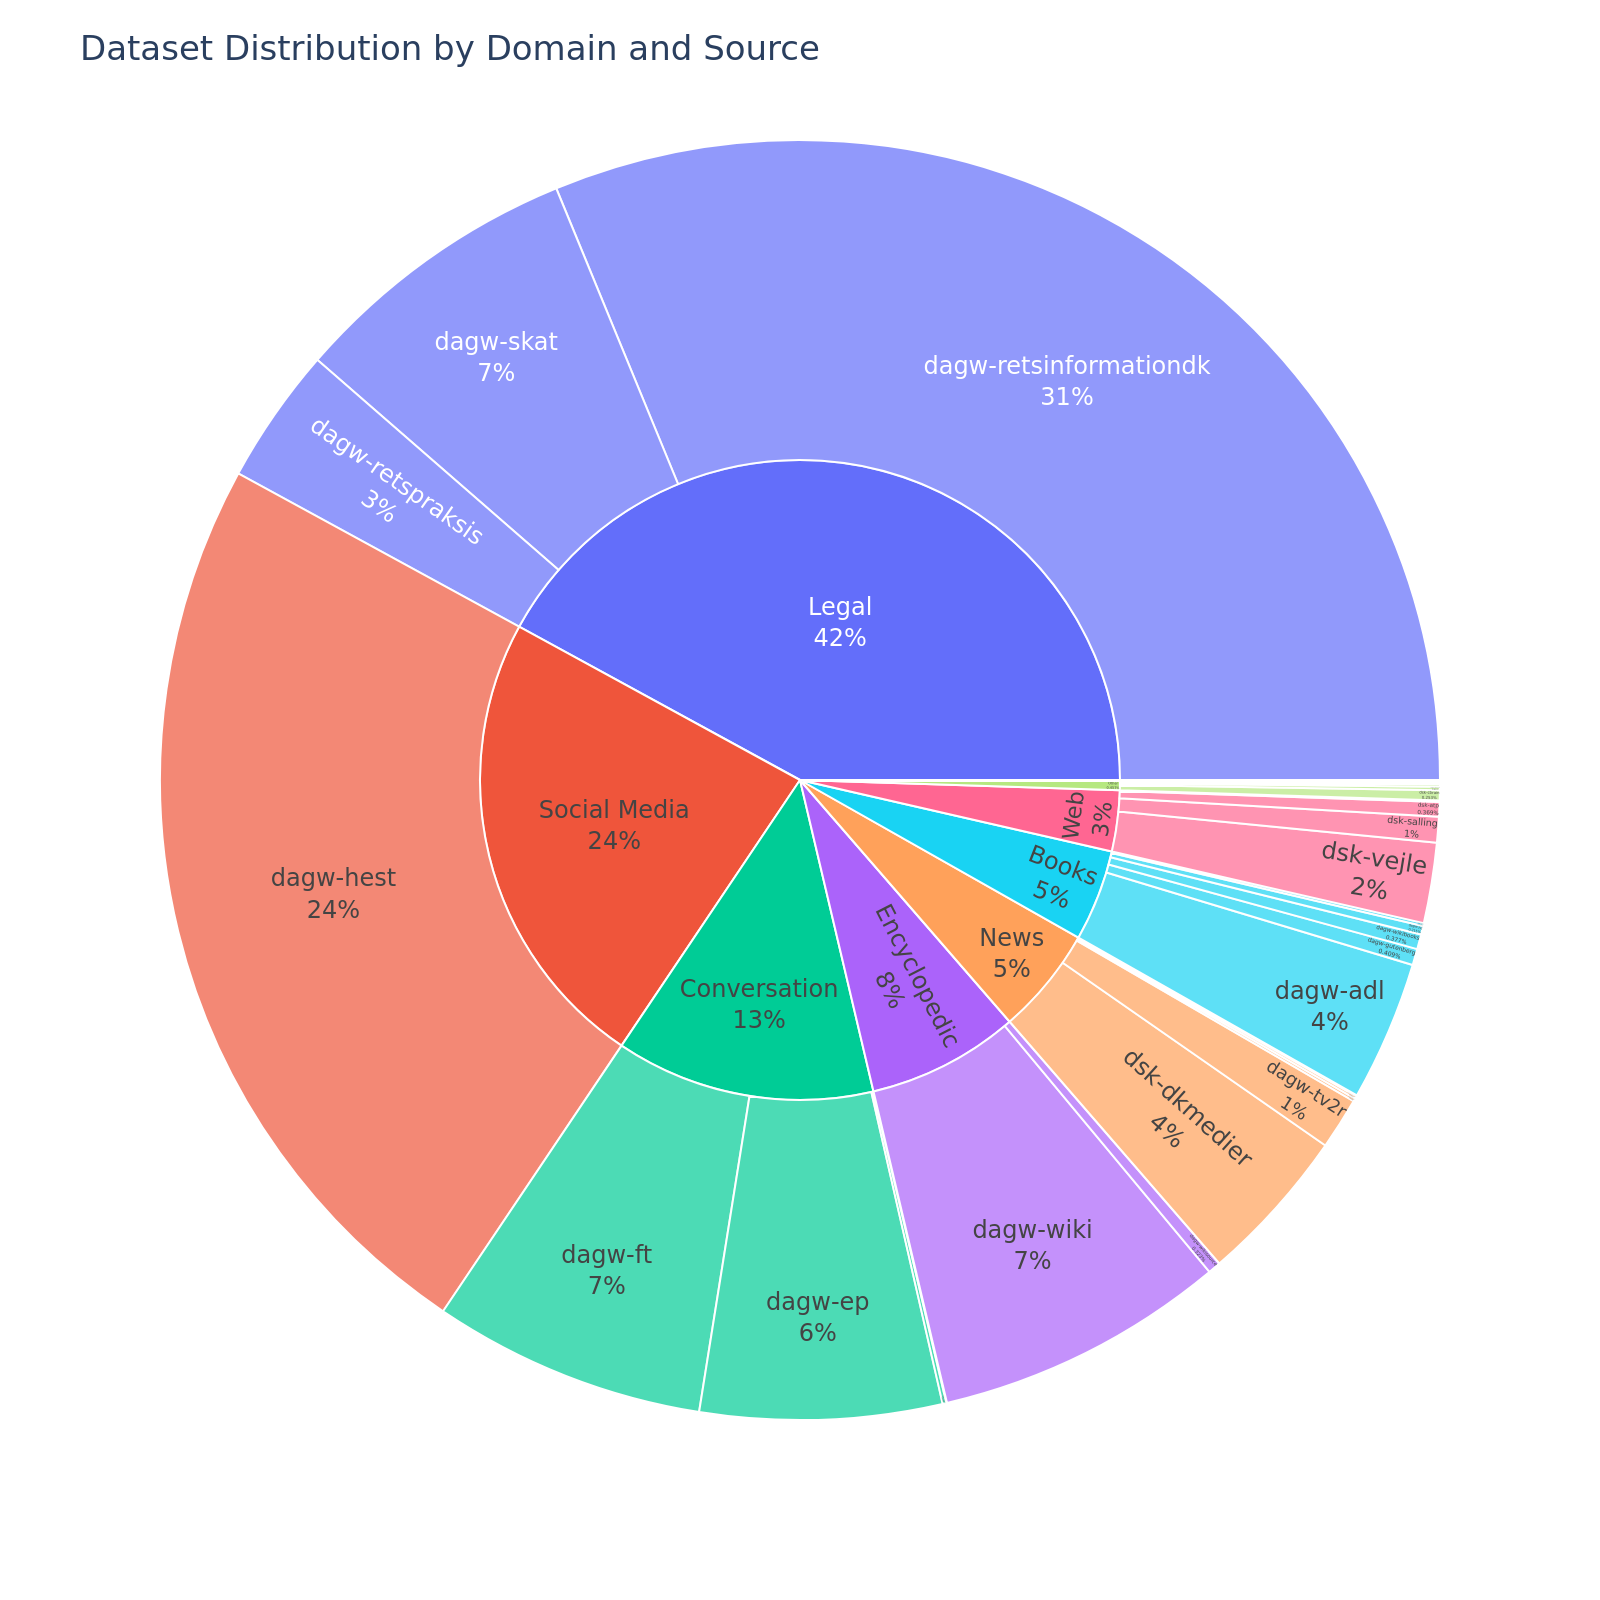
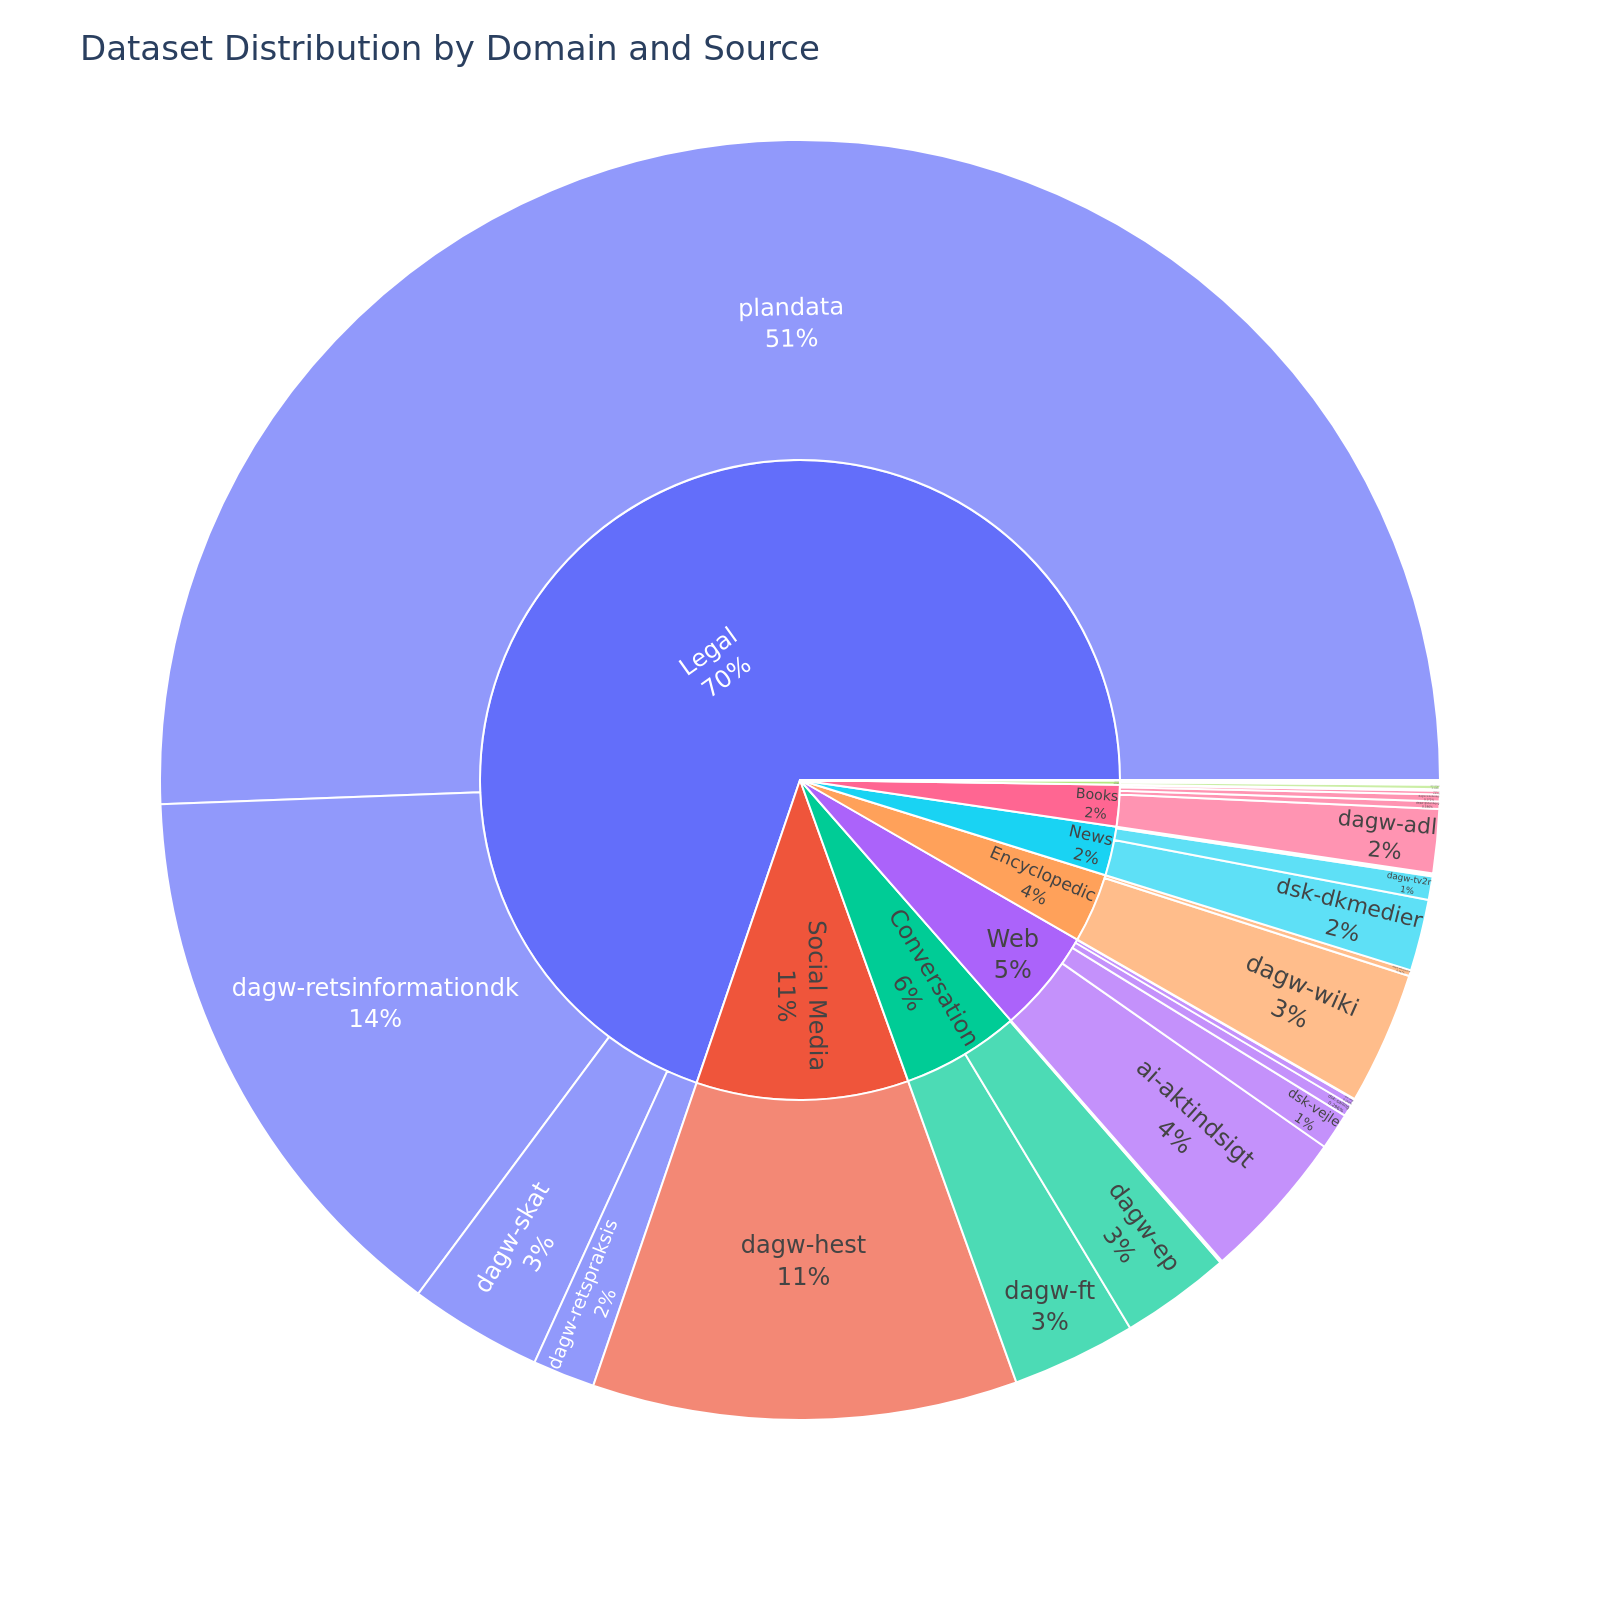
Finalised simplified `add-datasheet` procedure. Test added two datasets, `plandata` and `ai-aktindsigt`.

diff --git a/src/datasheets/generate_sheet.py b/src/datasheets/generate_sheet.py
@@ -3,6 +3,9 @@ import yaml
 import re
 from pathlib import Path
 
+from datasheets.datasheet import DataSheet
+from datasheets.paths import repo_path
+
 # --- Configuration ---
 
 # Pre-defined choices for prompts
@@ -164,6 +167,18 @@ def main():
     
     # Write the file
     output_path.write_text(final_content, encoding="utf-8")
+
+    # Update main readme
+    main_sheet = DataSheet.load_from_path(repo_path / "README.md")
+    _datasets = [
+        cfg["config_name"]  # type: ignore
+        for cfg in main_sheet.frontmatter["configs"]  # type: ignore
+        if cfg["config_name"] != "default"  # type: ignore
+    ]
+
+    if user_data['dataset_id'] not in _datasets:
+        main_sheet.frontmatter['configs'].append({"config_name": user_data['dataset_id']})
+        main_sheet.write_to_path(repo_path / "README.md")
     
     print(f"\n✅ Successfully created dataset card at: {output_path}")
 

diff --git a/src/datasheets/update_descriptive_statistics.py b/src/datasheets/update_descriptive_statistics.py
@@ -135,7 +135,7 @@ def update_dataset(
     desc_stats_path = metadata_base_path / desc_stats_filename
     markdown_path = metadata_base_path / readme_name
 
-    rev = get_latest_revision(repo_path)
+    rev = get_latest_revision(metadata_base_path)
 
     if desc_stats_path.exists() and force is False:
         with desc_stats_path.open("r") as f:

diff --git a/README.md b/README.md
@@ -34,6 +34,8 @@ configs:
 - config_name: dsk-salling
 - config_name: dsk-vejle
 - config_name: dsk-vitec
+- config_name: plandata
+- config_name: ai-aktindsigt
 annotations_creators:
 - no-annotation
 language_creators:
@@ -84,9 +86,9 @@ This repository contains the datasheets for DFM. This repostory documents.
 
 <!-- START-DESC-STATS -->
 - **Language**: dan, dansk, Danish
-- **Number of samples**: 630.94K
-- **Number of tokens (Llama 3)**: 1.65B
-- **Average document length (characters)**: 7791.64
+- **Number of samples**: 946.13K
+- **Number of tokens (Llama 3)**: 3.63B
+- **Average document length (characters)**: 12579.34
 <!-- END-DESC-STATS -->
 
 ### Summary
@@ -105,8 +107,10 @@ We generally split the dataset into two categories: Public release sources and r
 <!-- START-MAIN TABLE -->
 | Source                   | Description                                                                                                                                                                                             | Domain       | N. Tokens   | License                |
 |:-------------------------|:--------------------------------------------------------------------------------------------------------------------------------------------------------------------------------------------------------|:-------------|:------------|:-----------------------|
+| [plandata]               | A collection of documents pertaining to the planning of municipalities (Lokalplaner), regions, etc. in Denmark                                                                                          | Legal        | 1.84B       | [Unknown]              |
 | [dagw-retsinformationdk] | [retsinformation.dk](https://www.retsinformation.dk) (legal-information.dk) the official legal information system of Denmark                                                                            | Legal        | 516.47M     | [Danish Copyright Law] |
 | [dagw-hest]              | Samples from the Danish debate forum www.heste-nettet.dk                                                                                                                                                | Social Media | 389.31M     | [CC-0]                 |
+| [ai-aktindsigt]          | Multiple web scrapes from municipality websites collected as a part of the [AI-aktindsigt](https://ai-aktindsigt.dk) project                                                                            | Web          | 139.03M     | [Apache 2.0]           |
 | [dagw-skat]              | Skat is the Danish tax authority. This dataset contains content from its website skat.dk                                                                                                                | Legal        | 122.11M     | [CC-0]                 |
 | [dagw-wiki]              | The Danish subsection of [wikipedia](https://en.wikipedia.org/wiki/Main_Page)                                                                                                                           | Encyclopedic | 121.74M     | [CC-0]                 |
 | [dagw-ft]                | Records from all meetings of The Danish parliament (Folketinget) in the parliament hall                                                                                                                 | Conversation | 114.09M     | [CC-0]                 |
@@ -137,7 +141,7 @@ We generally split the dataset into two categories: Public release sources and r
 | [dagw-depbank]           | The Danish subsection of the [Universal Dependencies Treebank](https://github.com/UniversalDependencies/UD_Danish-DDT)                                                                                  | Other        | 184.92K     | [CC-BY-SA 4.0]         |
 | [dsk-hofor]              | A collection of articles, guides and newsletters written by HOFOR for their customers                                                                                                                   | Other        | 143.49K     | [DSK-1]                |
 | [dagw-synne]             | Dataset collected from [synnejysk forening's website](https://www.synnejysk.dk), covering the Danish dialect sønderjysk                                                                                 | Other        | 52.33K      | [CC-0]                 |
-| **Total**                |                                                                                                                                                                                                         |              | 1.65B       |                        |
+| **Total**                |                                                                                                                                                                                                         |              | 3.63B       |                        |
 
 [dagw-adl]: data/dagw-adl/dagw-adl.md
 [dagw-botxt]: data/dagw-botxt/dagw-botxt.md
@@ -171,6 +175,8 @@ We generally split the dataset into two categories: Public release sources and r
 [dsk-salling]: data/dsk-salling/dsk-salling.md
 [dsk-vejle]: data/dsk-vejle/dsk-vejle.md
 [dsk-vitec]: data/dsk-vitec/dsk-vitec.md
+[plandata]: data/plandata/plandata.md
+[ai-aktindsigt]: data/ai-aktindsigt/ai-aktindsigt.md
 
 
 [CC-0]: https://creativecommons.org/publicdomain/zero/1.0/legalcode.en
@@ -191,6 +197,7 @@ We generally split the dataset into two categories: Public release sources and r
 [DSK-1]: ./data/dsk-salling/dsk-salling.md#license-information
 [DSK-1]: ./data/dsk-vejle/dsk-vejle.md#license-information
 [DSK-1]: ./data/dsk-vitec/dsk-vitec.md#license-information
+[Unknown]: ./data/plandata/plandata.md#license-information
 <!-- END-MAIN TABLE -->
 
 <!-- **Public Release sources**: These sources include datasets that either public released under permissible licenses or where explicit permission have been given by the data owner to train and release models based on the data. The primary source for the non-public training data is [DSK](https://alexandra.dk/dsk/).

diff --git a/data/ai-aktindsigt/ai-aktindsigt.md b/data/ai-aktindsigt/ai-aktindsigt.md
@@ -1,0 +1,88 @@
+---
+pretty_name: AI Aktindsigt
+language:
+- da
+license: apache-2.0
+license_name: Apache 2.0
+task_categories:
+- text-generation
+- fill-mask
+task_ids:
+- language-modeling
+domains:
+- Web
+source_datasets:
+- AI-aktindsigt/Skrabet_kommunale_hjemmesider
+---
+
+# Dataset Card for AI Aktindsigt
+
+<!-- START-SHORT DESCRIPTION -->
+Multiple web scrapes from municipality websites collected as a part of the [AI-aktindsigt](https://ai-aktindsigt.dk) project.
+<!-- END-SHORT DESCRIPTION -->
+
+The dataset consists of multiple scrapes of municipal websites compiled in connection with the work on the [AI-aktindsigt](https://ai-aktindsigt.dk) project. The scrape is made across different domains from several different municipalities.
+
+
+
+
+## Dataset Description
+
+<!-- START-DESC-STATS -->
+- **Language**: dan, dansk, Danish
+- **Domains**: Web
+- **Number of samples**: 200.91K
+- **Number of tokens (Llama 3)**: 139.03M
+- **Average document length (characters)**: 2030.75
+<!-- END-DESC-STATS -->
+
+
+## Dataset Structure
+An example from the dataset looks as follows.
+
+
+<!-- START-SAMPLE -->
+```py
+{
+  "id": "ai-aktindsigt_0",
+  "text": "Vallensbæk Stationstorv 100 2665 Vallensbæk Strand Telefon: +45 4797 4000",
+  "source": "ai-aktindsigt",
+  "added": "2025-03-24",
+  "created": "2010-01-01, 2024-03-18",
+  "token_count": 29
+}
+```
+
+### Data Fields
+
+An entry in the dataset consists of the following fields:
+
+- `id` (`str`): An unique identifier for each document.
+- `text`(`str`): The content of the document.
+- `source` (`str`): The source of the document (see [Source Data](#source-data)).
+- `added` (`str`): An date for when the document was added to this collection.
+- `created` (`str`): An date range for when the document was originally created.
+- `token_count` (`int`): The number of tokens in the sample computed using the Llama 8B tokenizer
+<!-- END-SAMPLE -->
+
+
+### Dataset Statistics
+
+<!-- START-DATASET PLOTS -->
+<p align="center">
+<img src="./images/dist_document_length.png" width="600" style="margin-right: 10px;" />
+</p>
+<!-- END-DATASET PLOTS -->
+
+
+## Additional Information
+
+
+
+### Sourced data
+This dataset is derived from [`AI-aktindsigt/Skrabet_kommunale_hjemmesider`](https://huggingface.co/datasets/AI-aktindsigt/Skrabet_kommunale_hjemmesider/tree/main
+)
+
+### Citation Information
+
+No citation is applicable for this work. We recommend citing the huggingface repository.

diff --git a/data/plandata/plandata.md b/data/plandata/plandata.md
@@ -1,5 +1,5 @@
 ---
-pretty_name: Plandata
+pretty_name: Plan- og Landdistriktsstyrelsen - Plandata.dk
 language:
 - da
 license: other
@@ -13,8 +13,7 @@ domains:
 - Legal
 ---
 
-
-# Dataset Card for Plandata
+# Dataset Card for Plan- og Landdistriktsstyrelsen - Plandata.dk
 
 <!-- START-SHORT DESCRIPTION -->
 A collection of documents pertaining to the planning of municipalities (Lokalplaner), regions, etc. in Denmark.
@@ -30,10 +29,10 @@ They are created by various administrative regions such as municipalities.
 
 <!-- START-DESC-STATS -->
 - **Language**: dan, dansk, Danish
-- **Domains**: News
-- **Number of samples**: 105.11K
-- **Number of tokens (Llama 3)**: 65.44M
-- **Average document length (characters)**: 1866.20
+- **Domains**: Legal
+- **Number of samples**: 114.28K
+- **Number of tokens (Llama 3)**: 1.84B
+- **Average document length (characters)**: 57558.79
 <!-- END-DESC-STATS -->
 
 
@@ -63,7 +62,7 @@ An entry in the dataset consists of the following fields:
 # Additional Information
 
 ## License Information
-The license for this dataset is unknown. We have a written agreement with "Plan- og Landdistriktsstyrelsen" that we can use the data for training.
+The license for this is we have a written agreement with "Plan- og Landdistriktsstyrelsen" that we can use the data for training.
 
 ### Citation Information
 
